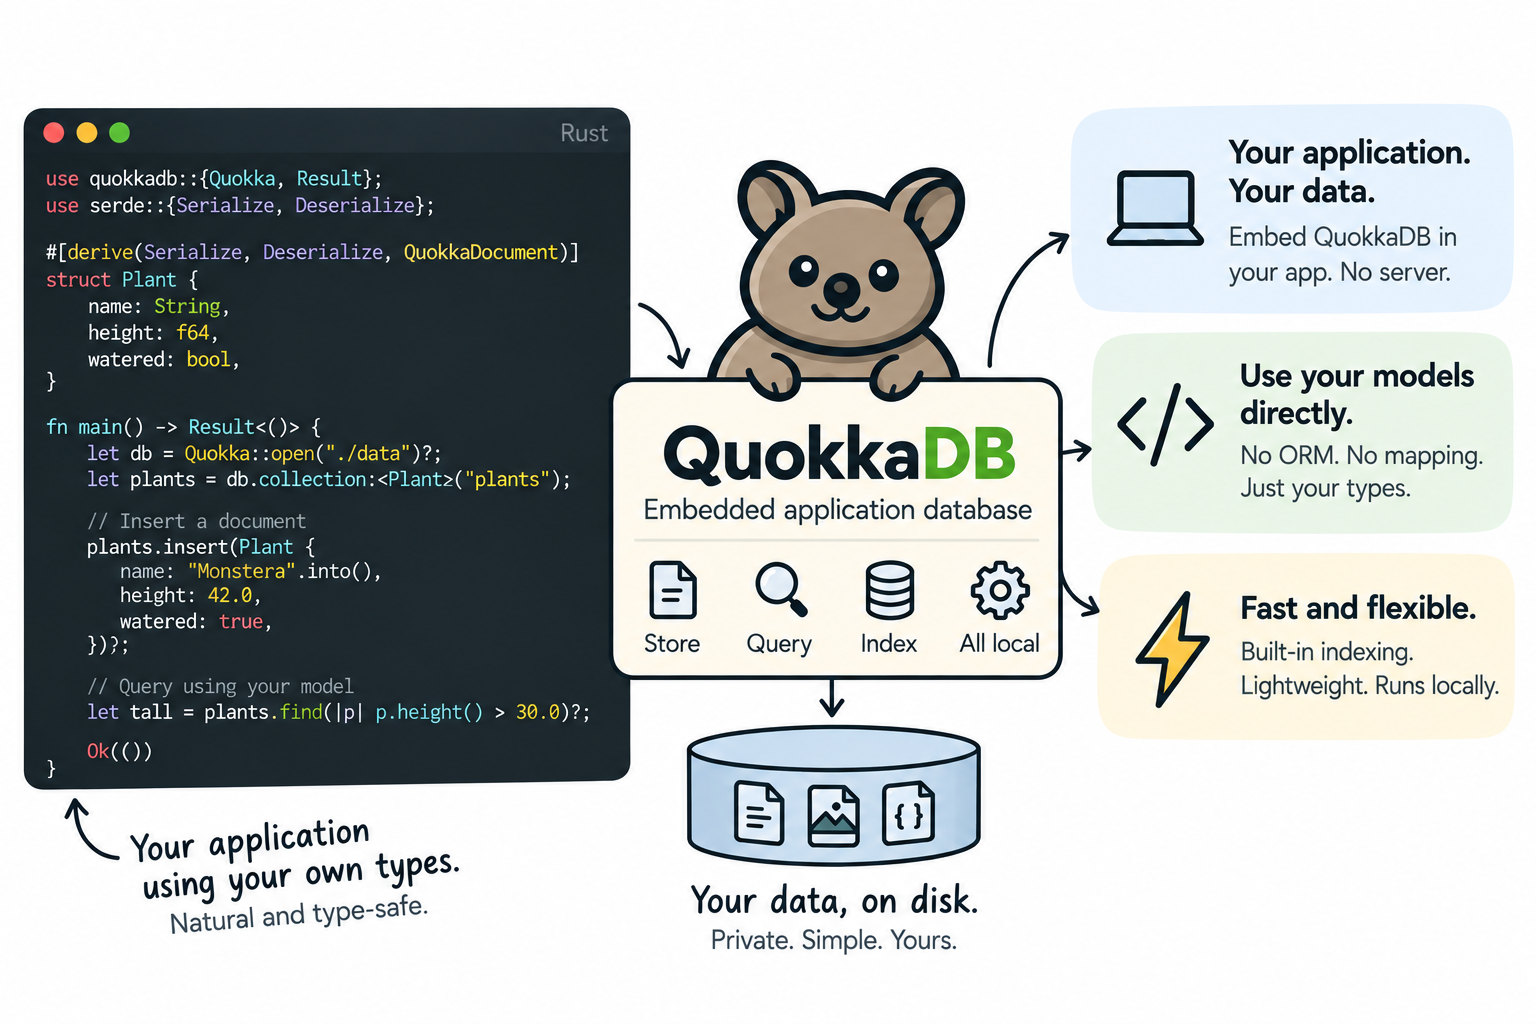
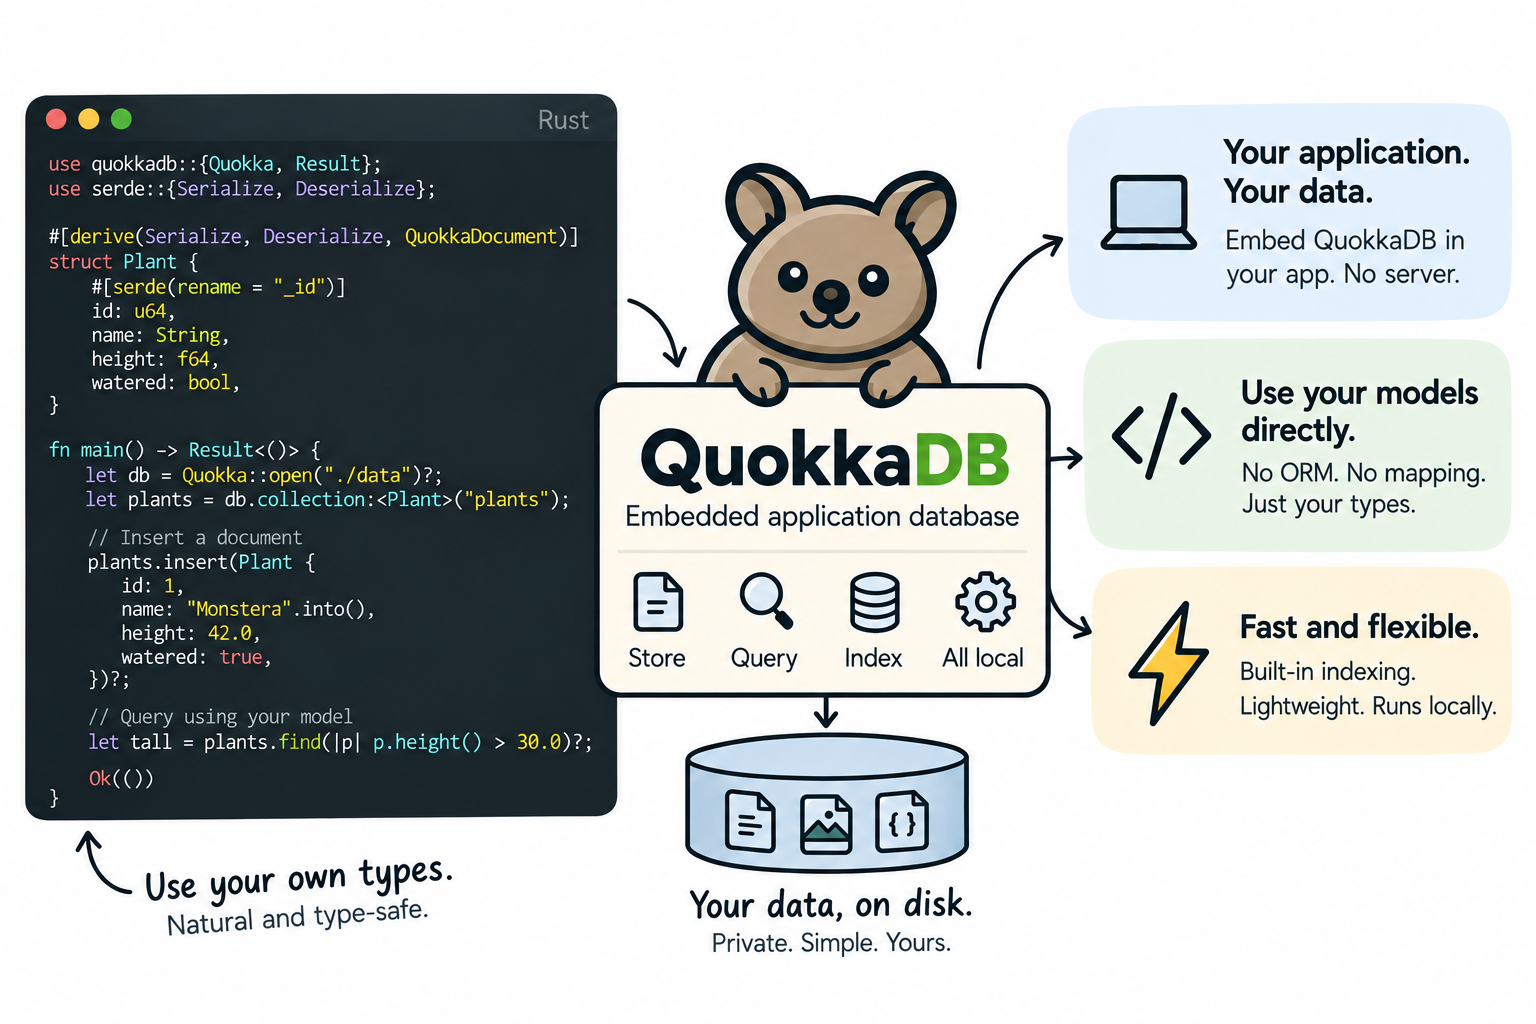
Update examples

Changed region(s): [[0.0, 0.0938, 1.0, 0.9375], [0.6562, 0.125, 0.9688, 0.3125]]

diff --git a/docs/guides/update-data.md b/docs/guides/update-data.md
@@ -4,6 +4,8 @@ Use an update when you want to change selected fields without replacing the rest
 
 The examples extend `Plant` with `height_cm: i32`, `last_watered: Option<bson::DateTime>`, and `tags: Vec<String>`.
 
+For updates to an existing plant, `plant_id` is its `QuokkaId`, retained from insertion or read from the retrieved model's `id` field.
+
 Related: [Find queries](find-queries.md) · [Features — Update operators](../features.md#update-operators).
 
 ## Make normal typed updates
@@ -12,7 +14,7 @@ Pass one closure to choose models and another to describe the change. Update exp
 
 ```rust
 let result = plants.update_one(
-    |plant| plant.id.eq(1_u64),
+    |plant| plant.id.eq(plant_id),
     |plant| {
         plant
             .needs_water
@@ -54,7 +56,7 @@ Array methods use the same names you will see in the API: `add_to_set` adds a va
 
 ```rust
 plants.update_one(
-    |plant| plant.id.eq(1_u64),
+    |plant| plant.id.eq(plant_id),
     |plant| {
         plant
             .tags
@@ -71,16 +73,20 @@ Use `add_to_set_each`, `push_each`, `push_each_with`, `pop_first`, `pop_last`, a
 
 Use an operation builder for options such as upsert. `set_on_insert` changes a field only when the upsert creates a document; set every required field for the model in that case.
 
+Generate an ID once for this new plant and reuse it if the operation is retried.
+
 ```rust
+let new_plant_id = quokkadb::QuokkaId::new();
 let result = plants
     .update_one_with(
-        |plant| plant.id.eq(2_u64),
+        |plant| plant.id.eq(new_plant_id),
         |plant| {
             plant
                 .name
                 .set_on_insert("Pothos")
                 .and(plant.needs_water.set_on_insert(true))
                 .and(plant.height_cm.set_on_insert(20))
+                .and(plant.tags.set_on_insert(Vec::<String>::new()))
         },
     )
     .upsert(true)
@@ -117,7 +123,7 @@ use quokkadb::document::ReturnDocument;
 
 let updated = plants
     .find_one_and_update_with(
-        |plant| plant.id.eq(1_u64),
+        |plant| plant.id.eq(plant_id),
         |plant| plant.needs_water.set(false),
     )
     .return_document(ReturnDocument::After)

diff --git a/docs/api-reference.md b/docs/api-reference.md
@@ -47,13 +47,13 @@ Both opening methods accept any value that implements `AsRef<Path>`, including `
 `TypedCollection<T>` stores a Serde-serializable Rust model and produces typed field expressions from it. Derive `QuokkaDocument` for the root collection model. Give exactly one concrete, non-optional field the effective Serde name `_id`, usually with `#[serde(rename = "_id")]`.
 
 ```rust
-use quokkadb::QuokkaDocument;
+use quokkadb::{QuokkaDocument, QuokkaId};
 use serde::{Deserialize, Serialize};
 
 #[derive(Deserialize, Serialize, QuokkaDocument)]
 struct Plant {
     #[serde(rename = "_id")]
-    id: u64,
+    id: QuokkaId,
     name: String,
     needs_water: bool,
 }
@@ -181,11 +181,18 @@ The direct methods execute immediately. The `_with` variants return builders for
 
 `TypedUpdateResult<T>` exposes `matched_count`, `modified_count`, and `upserted_id: Option<T::Id>`. `DeleteResult` exposes `deleted_count`. `ReturnDocument::Before` is the default for find-and-update and find-and-replace; pass `ReturnDocument::After` to return the changed model.
 
+Here, `plant_id` is a `QuokkaId` retained from an inserted or retrieved plant. If that plant no longer exists, the upsert recreates it with the required fields:
+
 ```rust
 let result = plants
     .update_one_with(
-        |plant| plant.id.eq(1_u64),
-        |plant| plant.needs_water.set(false),
+        |plant| plant.id.eq(plant_id),
+        |plant| {
+            plant
+                .needs_water
+                .set(false)
+                .and(plant.name.set_on_insert("Monstera"))
+        },
     )
     .upsert(true)
     .execute()?;

diff --git a/docs/concepts.md b/docs/concepts.md
@@ -10,7 +10,7 @@ Most applications should use the typed API. A typed collection serializes a Rust
 #[derive(serde::Serialize, serde::Deserialize, quokkadb::QuokkaDocument)]
 struct Plant {
     #[serde(rename = "_id")]
-    id: u64,
+    id: quokkadb::QuokkaId,
     name: String,
     needs_water: bool,
 }
@@ -61,6 +61,8 @@ Create a collection explicitly when its setup is part of application initializat
 Every stored document has an `_id` field. It identifies the document within its collection and must be unique.
 
 Typed models always supply their own ID. A `QuokkaDocument` model has exactly one non-optional field whose effective Serde name is `_id`, usually configured with `#[serde(rename = "_id")]`.
+
+Typed examples in this documentation use `QuokkaId`. Applications can also use other supported ID types, such as integers or strings.
 
 For a document collection, each collection has one of three ID-creation strategies:
 
@@ -125,7 +127,7 @@ When the database uses `ProcessSafe` or `Buffered`, call `sync()` on an individu
 ```rust
 plants
     .insert_one_with(Plant {
-        id: 1,
+        id: quokkadb::QuokkaId::new(),
         name: "Monstera".into(),
         needs_water: true,
     })?

diff --git a/docs/guides/find-queries.md b/docs/guides/find-queries.md
@@ -17,7 +17,7 @@ let plant = plants
 ```
 
 When the model ID is already available, use `find_one_by_id` instead of building an `_id` filter.
-It returns `None` when no model has that ID.
+Here, `plant_id` is a `QuokkaId` retained from insertion or read from a retrieved model's `id` field. The method returns `None` when no model has that ID.
 
 ```rust
 let plant = plants.find_one_by_id(plant_id)?;
@@ -34,9 +34,11 @@ let plants = plants
 
 Scalar fields provide `eq`, `ne`, `gt`, `gte`, `lt`, and `lte`. Use `in_values` and `nin` when a value must match or exclude a set.
 
+In this example, `plant_ids` is a `Vec<quokkadb::QuokkaId>` containing IDs retained from previously inserted or retrieved plants.
+
 ```rust
 let selected = plants
-    .find(|plant| plant.id.in_values([1_u64, 4, 9]).and(plant.name.nin(["Cactus"])))
+    .find(|plant| plant.id.in_values(plant_ids).and(plant.name.nin(["Cactus"])))
     .execute()?;
 ```
 

diff --git a/docs/getting-started.md b/docs/getting-started.md
@@ -20,13 +20,13 @@ This complete program opens a database in `./data`, stores a `Plant`, and finds 
 
 ```rust
 use quokkadb::error::Result;
-use quokkadb::{QuokkaDB, QuokkaDocument};
+use quokkadb::{QuokkaDB, QuokkaDocument, QuokkaId};
 use serde::{Deserialize, Serialize};
 
 #[derive(Serialize, Deserialize, QuokkaDocument)]
 struct Plant {
     #[serde(rename = "_id")]
-    id: u64,
+    id: QuokkaId,
     name: String,
     needs_water: bool,
 }
@@ -38,7 +38,7 @@ fn main() -> Result<()> {
         .create_if_missing();
 
     plants.insert_one(Plant {
-        id: 1,
+        id: QuokkaId::new(),
         name: "Monstera".into(),
         needs_water: true,
     })?;

diff --git a/docs/guides/schema-evolution-and-migrations.md b/docs/guides/schema-evolution-and-migrations.md
@@ -12,7 +12,7 @@ Suppose the first version of an application stored only an ID and a name:
 #[derive(serde::Serialize, serde::Deserialize, quokkadb::QuokkaDocument)]
 struct Plant {
     #[serde(rename = "_id")]
-    id: u64,
+    id: quokkadb::QuokkaId,
     name: String,
 }
 ```
@@ -23,7 +23,7 @@ The application can later add fields without rewriting every old document:
 #[derive(serde::Serialize, serde::Deserialize, quokkadb::QuokkaDocument)]
 struct Plant {
     #[serde(rename = "_id")]
-    id: u64,
+    id: quokkadb::QuokkaId,
     name: String,
     #[serde(default)]
     needs_water: bool,

diff --git a/docs/operations.md b/docs/operations.md
@@ -83,7 +83,7 @@ When the database uses `ProcessSafe` or `Buffered`, call `sync()` on a write bui
 ```rust
 plants
     .insert_one_with(Plant {
-        id: 1,
+        id: quokkadb::QuokkaId::new(),
         name: "Monstera".into(),
         needs_water: true,
     })?

diff --git a/docs/guides/durable-writes.md b/docs/guides/durable-writes.md
@@ -13,7 +13,7 @@ Use the operation builder, call `sync`, then execute it.
 ```rust
 plants
     .insert_one_with(Plant {
-        id: 1,
+        id: quokkadb::QuokkaId::new(),
         name: "Monstera".into(),
         needs_water: true,
     })?
